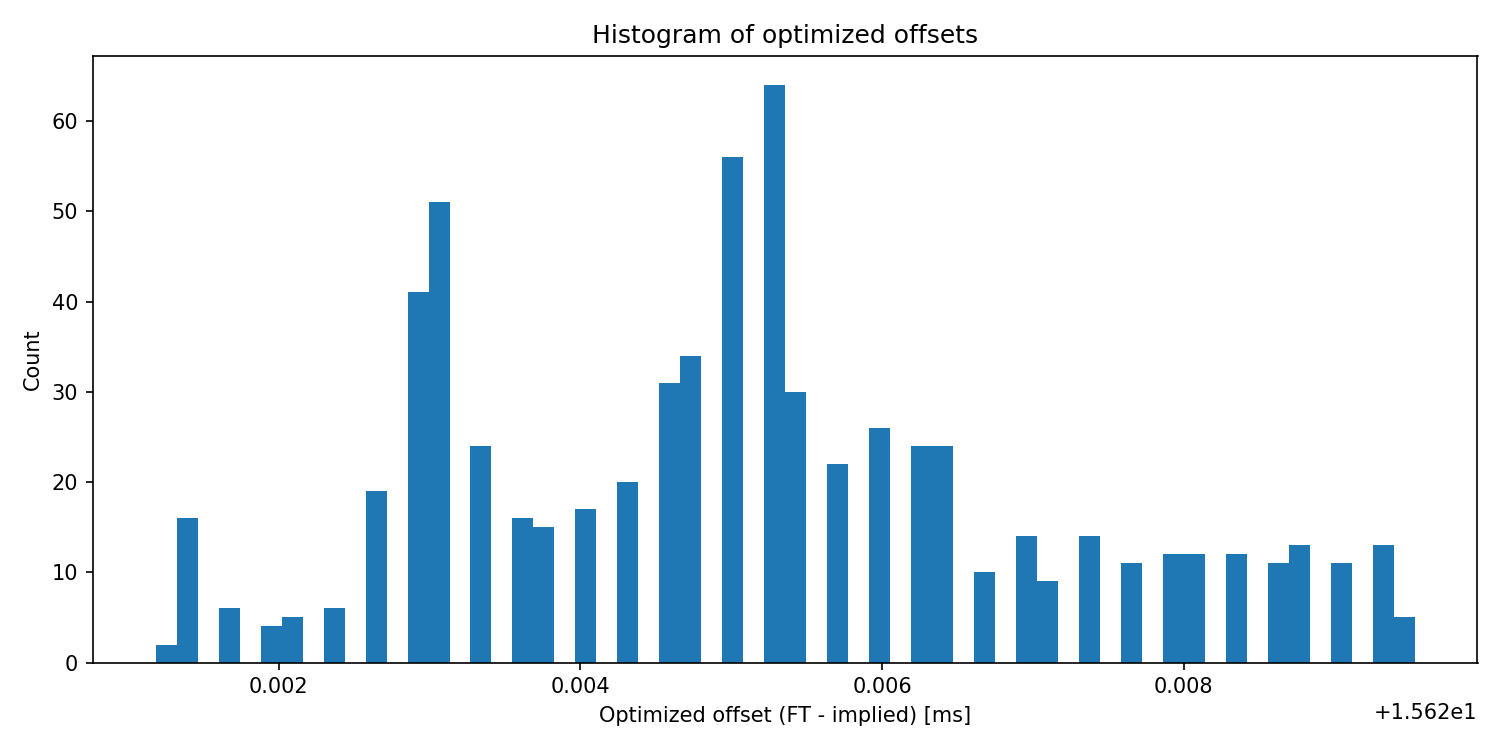
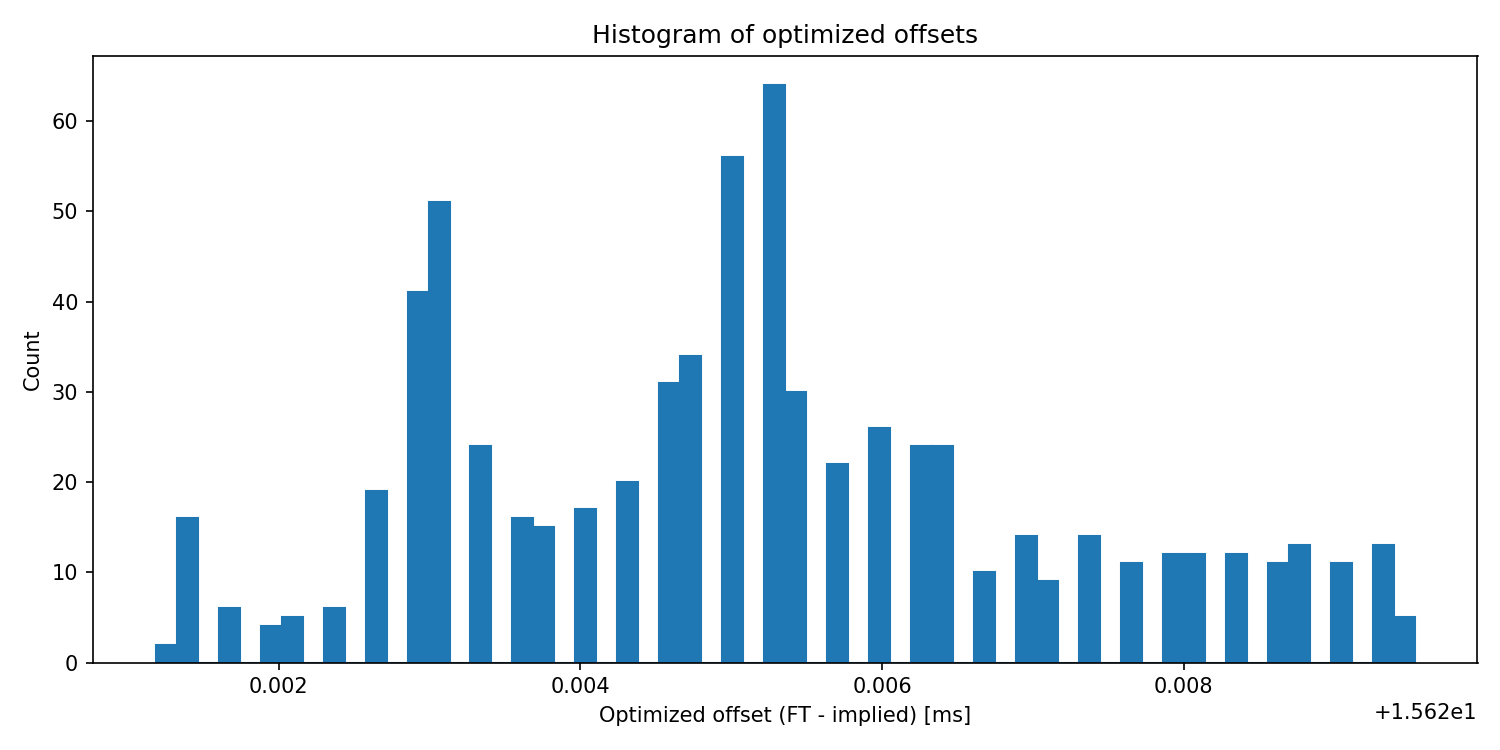
Add day number extraction and update histogram plotting for optimized offsets

diff --git a/mkv_ft_time_offsets.py b/mkv_ft_time_offsets.py
@@ -32,6 +32,8 @@ MKV_FILENAME_PATTERN = re.compile(
     r"^(?P<station>.+?)_(?P<date>\d{8})_(?P<time>\d{6})_(?P<micro>\d{6})(?:_.+)?\.(?i:mkv)$"
 )
 
+DAY_NUMBER_DIR_PATTERN = re.compile(r"^\d{8}-(?P<daynum>\d{3})(?:_\d{2})?$")
+
 
 @dataclass(frozen=True)
 class FTFileMeta:
@@ -409,6 +411,14 @@ def sanitize_for_filename(text: str) -> str:
     return sanitized.strip("_") or "curve"
 
 
+def extract_day_number_from_path(path: Path) -> float:
+    for part in reversed(path.parts):
+        match = DAY_NUMBER_DIR_PATTERN.match(part)
+        if match:
+            return float(int(match.group("daynum")))
+    return float("nan")
+
+
 def plot_single_optimized_curve(
     label: str,
     nominal_offsets_seconds: np.ndarray,
@@ -480,15 +490,64 @@ def plot_optimized_offset_summary_band(
 
 
 def plot_optimized_offset_histogram(
-    curves: list[tuple[str, np.ndarray, float]],
+    curves: list[tuple[str, np.ndarray, float, float]],
     output_path: Path,
 ) -> None:
     import matplotlib.pyplot as plt
 
-    all_offsets_ms = np.concatenate([offsets * 1000.0 for _, offsets, _ in curves])
+    all_offsets_ms = np.concatenate([offsets * 1000.0 for _, offsets, _, _ in curves])
+    all_day_numbers = np.concatenate(
+        [np.full(len(offsets), day_number, dtype=float) for _, offsets, _, day_number in curves]
+    )
+
+    counts, bin_edges = np.histogram(all_offsets_ms, bins=60)
+    bin_centers = 0.5 * (bin_edges[:-1] + bin_edges[1:])
+    bin_widths = np.diff(bin_edges)
+
+    bar_avg_days = np.full(len(counts), np.nan, dtype=float)
+    for index in range(len(counts)):
+        left = bin_edges[index]
+        right = bin_edges[index + 1]
+        if index == len(counts) - 1:
+            mask = (all_offsets_ms >= left) & (all_offsets_ms <= right)
+        else:
+            mask = (all_offsets_ms >= left) & (all_offsets_ms < right)
+
+        if not np.any(mask):
+            continue
+
+        day_values = all_day_numbers[mask]
+        finite_days = day_values[np.isfinite(day_values)]
+        if finite_days.size > 0:
+            bar_avg_days[index] = float(np.mean(finite_days))
 
     plt.figure(figsize=(10, 5))
-    plt.hist(all_offsets_ms, bins=60)
+    bars = plt.bar(bin_centers, counts, width=bin_widths, align="center")
+
+    finite_bar_days = bar_avg_days[np.isfinite(bar_avg_days)]
+    if finite_bar_days.size > 0:
+        cmap = plt.get_cmap("viridis")
+        day_min = float(np.min(finite_bar_days))
+        day_max = float(np.max(finite_bar_days))
+        if np.isclose(day_min, day_max):
+            norm = plt.Normalize(day_min - 0.5, day_max + 0.5)
+        else:
+            norm = plt.Normalize(day_min, day_max)
+
+        for bar, avg_day in zip(bars, bar_avg_days):
+            if np.isfinite(avg_day):
+                bar.set_color(cmap(norm(avg_day)))
+            else:
+                bar.set_color("tab:gray")
+
+        scalar_mappable = plt.cm.ScalarMappable(norm=norm, cmap=cmap)
+        scalar_mappable.set_array([])
+        colorbar = plt.colorbar(scalar_mappable)
+        colorbar.set_label("Average day number")
+    else:
+        for bar in bars:
+            bar.set_color("tab:blue")
+
     plt.xlabel("Optimized offset (FT - implied) [ms]")
     plt.ylabel("Count")
     plt.title("Histogram of optimized offsets")
@@ -606,11 +665,10 @@ def run_batch_mkv_task(
     mkv_start_iso: str,
     frame_rate: float,
     ft_times: np.ndarray,
-    plot_output_str: str,
-) -> tuple[str, str, np.ndarray, float]:
+    day_number: float,
+) -> tuple[str, str, np.ndarray, np.ndarray, float, float]:
     mkv_path = Path(mkv_path_str)
     mkv_start_utc = datetime.fromisoformat(mkv_start_iso)
-    _plot_output = Path(plot_output_str)
 
     output_buffer = io.StringIO()
     with contextlib.redirect_stdout(output_buffer):
@@ -630,6 +688,7 @@ def run_batch_mkv_task(
         nominal_offsets,
         optimized_offsets,
         optimized_fps,
+        day_number,
     )
 
 
@@ -778,7 +837,7 @@ def main() -> int:
     print(f"Overlapping days found: {len(overlap_days)}")
     print(f"Processing first {len(selected_days)} day(s): {', '.join(selected_days)}")
 
-    combined_curves: list[tuple[str, np.ndarray, np.ndarray, float]] = []
+    combined_curves: list[tuple[str, np.ndarray, np.ndarray, float, float]] = []
 
     for day_key in selected_days:
         day_mkv_files = mkv_by_day[day_key]
@@ -816,12 +875,13 @@ def main() -> int:
                             nominal_offsets,
                             optimized_offsets,
                             optimized_fps,
+                            extract_day_number_from_path(mkv_item.path),
                         )
                     )
             continue
 
         print(f"Processing day {day_key} MKV files with multiprocessing workers={args.workers}")
-        task_args: list[tuple[str, str, str, float, np.ndarray, str]] = []
+        task_args: list[tuple[str, str, str, float, np.ndarray, float]] = []
         for mkv_item in day_mkv_files:
             task_args.append(
                 (
@@ -830,7 +890,7 @@ def main() -> int:
                     mkv_item.start_utc.isoformat(),
                     args.fps,
                     day_ft_times,
-                    "",
+                    extract_day_number_from_path(mkv_item.path),
                 )
             )
 
@@ -843,6 +903,7 @@ def main() -> int:
                     nominal_offsets,
                     optimized_offsets,
                     optimized_fps,
+                    day_number,
                 ) = future.result()
                 print(output_text, end="")
                 curve_std_ms = optimized_curve_std_ms(optimized_offsets)
@@ -857,13 +918,17 @@ def main() -> int:
                     )
                 else:
                     combined_curves.append(
-                        (label, nominal_offsets, optimized_offsets, optimized_fps)
+                        (label, nominal_offsets, optimized_offsets, optimized_fps, day_number)
                     )
 
     if combined_curves:
         optimized_only_curves = [
             (label, optimized_offsets, optimized_fps)
-            for label, _, optimized_offsets, optimized_fps in combined_curves
+            for label, _, optimized_offsets, optimized_fps, _ in combined_curves
+        ]
+        optimized_curves_with_day = [
+            (label, optimized_offsets, optimized_fps, day_number)
+            for label, _, optimized_offsets, optimized_fps, day_number in combined_curves
         ]
         created = try_create_plot(
             f"combined optimized-offset plot ({plot_output})",
@@ -875,7 +940,7 @@ def main() -> int:
         sample_count = min(5, len(combined_curves))
         sampled_curves = random.sample(combined_curves, k=sample_count)
         print(f"Creating {sample_count} randomly selected single-curve optimized plots")
-        for index, (label, nominal_offsets, offsets, optimized_fps) in enumerate(
+        for index, (label, nominal_offsets, offsets, optimized_fps, _) in enumerate(
             sampled_curves, start=1
         ):
             sample_plot = plot_output.with_name(
@@ -910,7 +975,7 @@ def main() -> int:
         )
         created = try_create_plot(
             f"optimized offset histogram ({offset_hist_plot})",
-            lambda: plot_optimized_offset_histogram(optimized_only_curves, offset_hist_plot),
+            lambda: plot_optimized_offset_histogram(optimized_curves_with_day, offset_hist_plot),
         )
         if created:
             print(f"Saved optimized offset histogram to: {offset_hist_plot}")
